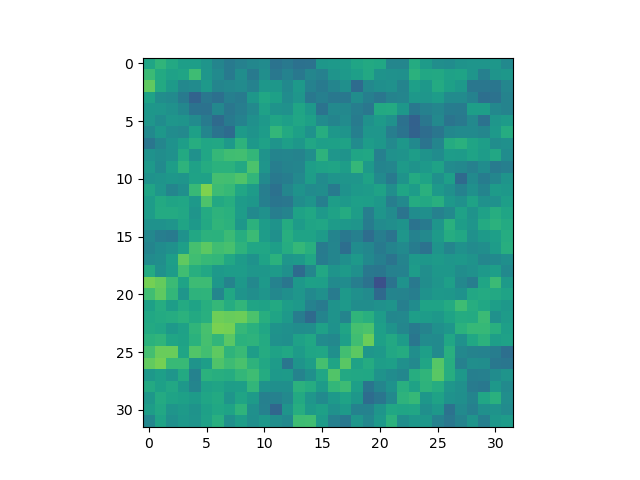
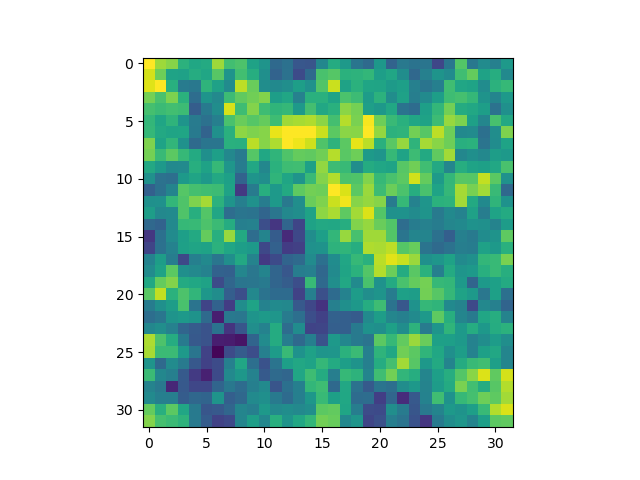
unconditional diffusion samples student model2

Changed region(s): [[0.2188, 0.125, 0.8125, 0.9062]]

diff --git a/studentnugget/masked/unparameterized/evaluation/diffusion_generation/conditional_mask_data_generation.py b/studentnugget/masked/unparameterized/evaluation/diffusion_generation/conditional_mask_data_generation.py
@@ -27,7 +27,7 @@ config.model.num_scales = 250
 config.model.beta_max = 25.
 
 score_model = th.nn.DataParallel((ncsnpp.NCSNpp(config)).to("cuda:0"))
-score_model.load_state_dict(th.load((home_folder + "/trained_score_models/vpsde/model1_variance_10_lengthscale_1.6_df_1_beta_min_max_01_25_250_random050_masks.pth")))
+score_model.load_state_dict(th.load((home_folder + "/trained_score_models/vpsde/model2_variance_10_lengthscale_1.6_df_10_beta_min_max_01_25_250_random050_masks.pth")))
 score_model.eval()
 
 sdevp = sde_lib.VPSDE(beta_min=0.1, beta_max=25, N=250)
@@ -134,7 +134,7 @@ for i in range(0, 4):
 
     partially_observed = (mask*ref_img).detach().cpu().numpy().reshape((n,n))
     np.save("data/model2/ref_image1/ref_image1.npy", ref_img.detach().cpu().numpy().reshape((n,n)))
-    np.save("data/model2/ref_image1/diffusion/model1_beta_min_max_01_25_random50_250_" + str(i) + ".npy", conditional_samples)
+    np.save("data/model2/ref_image1/diffusion/model2_beta_min_max_01_25_random0_250_" + str(i) + ".npy", conditional_samples)
     np.save("data/model2/ref_image1/partially_observed_field.npy", partially_observed.reshape((n,n)))
     np.save("data/model2/ref_image1/mask.npy", mask.int().detach().cpu().numpy().reshape((n,n)))
     np.save("data/model2/ref_image1/seed_value.npy", np.array([int(seed_value)]))
